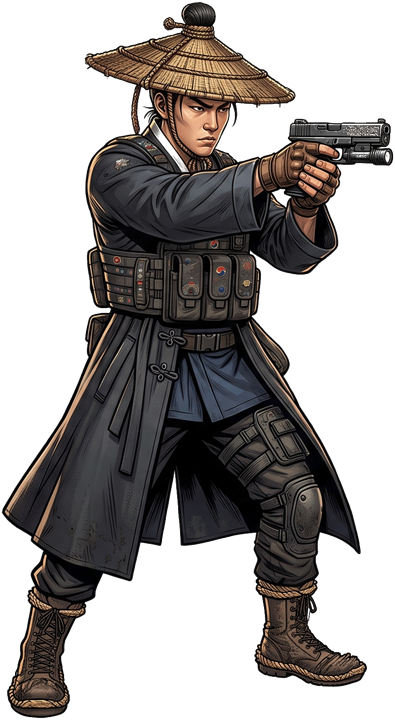
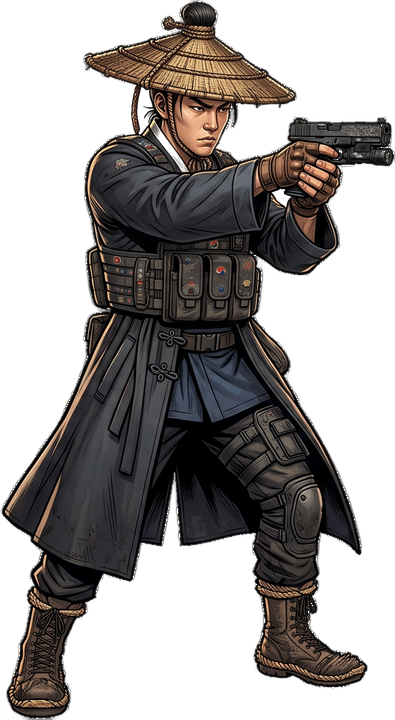
v2.2.3

diff --git a/index.html b/index.html
@@ -1021,23 +1021,23 @@
 
 <div id="modal"><div class="sheet" id="sheet"></div></div>
 
-<script src="data/access.js?v=2.2.2"></script>
-<script src="data/vault.js?v=2.2.2"></script>
-<script src="data/characters.js?v=2.2.2"></script>
-<script src="data/skills.js?v=2.2.2"></script>
-<script src="data/allies.js?v=2.2.2"></script>
-<script src="data/gifts.js?v=2.2.2"></script>
-<script src="data/pickup.js?v=2.2.2"></script>
-<script src="data/achievements.js?v=2.2.2"></script>
-<script src="data/mail.js?v=2.2.2"></script>
-<script src="data/notice.js?v=2.2.2"></script>
-<script src="data/patch.js?v=2.2.2"></script>
-<script src="data/event.js?v=2.2.2"></script>
-<script src="data/tutorial.js?v=2.2.2"></script>
-<script src="data/foes.js?v=2.2.2"></script>
-<script src="data/story.js?v=2.2.2"></script>
-<script src="data/mirrorpacks.js?v=2.2.2"></script>
-<script src="engine.js?v=2.2.2"></script>
+<script src="data/access.js?v=2.2.3"></script>
+<script src="data/vault.js?v=2.2.3"></script>
+<script src="data/characters.js?v=2.2.3"></script>
+<script src="data/skills.js?v=2.2.3"></script>
+<script src="data/allies.js?v=2.2.3"></script>
+<script src="data/gifts.js?v=2.2.3"></script>
+<script src="data/pickup.js?v=2.2.3"></script>
+<script src="data/achievements.js?v=2.2.3"></script>
+<script src="data/mail.js?v=2.2.3"></script>
+<script src="data/notice.js?v=2.2.3"></script>
+<script src="data/patch.js?v=2.2.3"></script>
+<script src="data/event.js?v=2.2.3"></script>
+<script src="data/tutorial.js?v=2.2.3"></script>
+<script src="data/foes.js?v=2.2.3"></script>
+<script src="data/story.js?v=2.2.3"></script>
+<script src="data/mirrorpacks.js?v=2.2.3"></script>
+<script src="engine.js?v=2.2.3"></script>
 <script>
 /* 데이터 파일을 못 읽은 경우에 대비한 안내 */
 if (typeof CHAPTERS === "undefined" || typeof SINNERS === "undefined") {

diff --git a/data/patch.js b/data/patch.js
@@ -39,6 +39,13 @@
 
 const PATCH_NOTES = [
   {
+    ver: "2.2.3", name: "호감이 끝나는", date: "2026-09-12",
+    lines: [
+      "적과 인물 그림 <b style=\"color:#d8b26a\">여섯 장</b>을 다시 잘랐습니다. 배경을 색으로 지우던 예전 방식 탓에 흰 옷 · 회색 쇠붙이가 함께 지워져, 무대에 세우면 몸 안쪽으로 배경이 비쳐 보이던 것을 고쳤습니다.",
+      "권총 몸통이 반투명하던 것, 어깨에 구멍이 나 있던 것, 발밑에 바닥 조각이 남아 있던 것도 함께 정리했습니다."
+    ]
+  },
+  {
     ver: "2.2.2", name: "호감이 끝나는", date: "2026-09-12",
     lines: [
       "스케치 초상 <b style=\"color:#d8b26a\">세 장</b>의 속을 채웠습니다. 무대에 세웠을 때 옷 안쪽으로 배경이 비쳐 보이던 것을 고쳤습니다.",

diff --git a/engine.js b/engine.js
@@ -11,7 +11,7 @@
  *    가운뎃자리  장이 늘거나 기능이 추가될 때
  *    뒷자리  대사·수치 손질
  */
-const VERSION = "2.2.2";
+const VERSION = "2.2.3";
 const VERSION_NAME = "호감이 끝나는";
 
 /* ── 규칙 상수 ─ 밸런스를 만지려면 여기 ────────────────────── */
